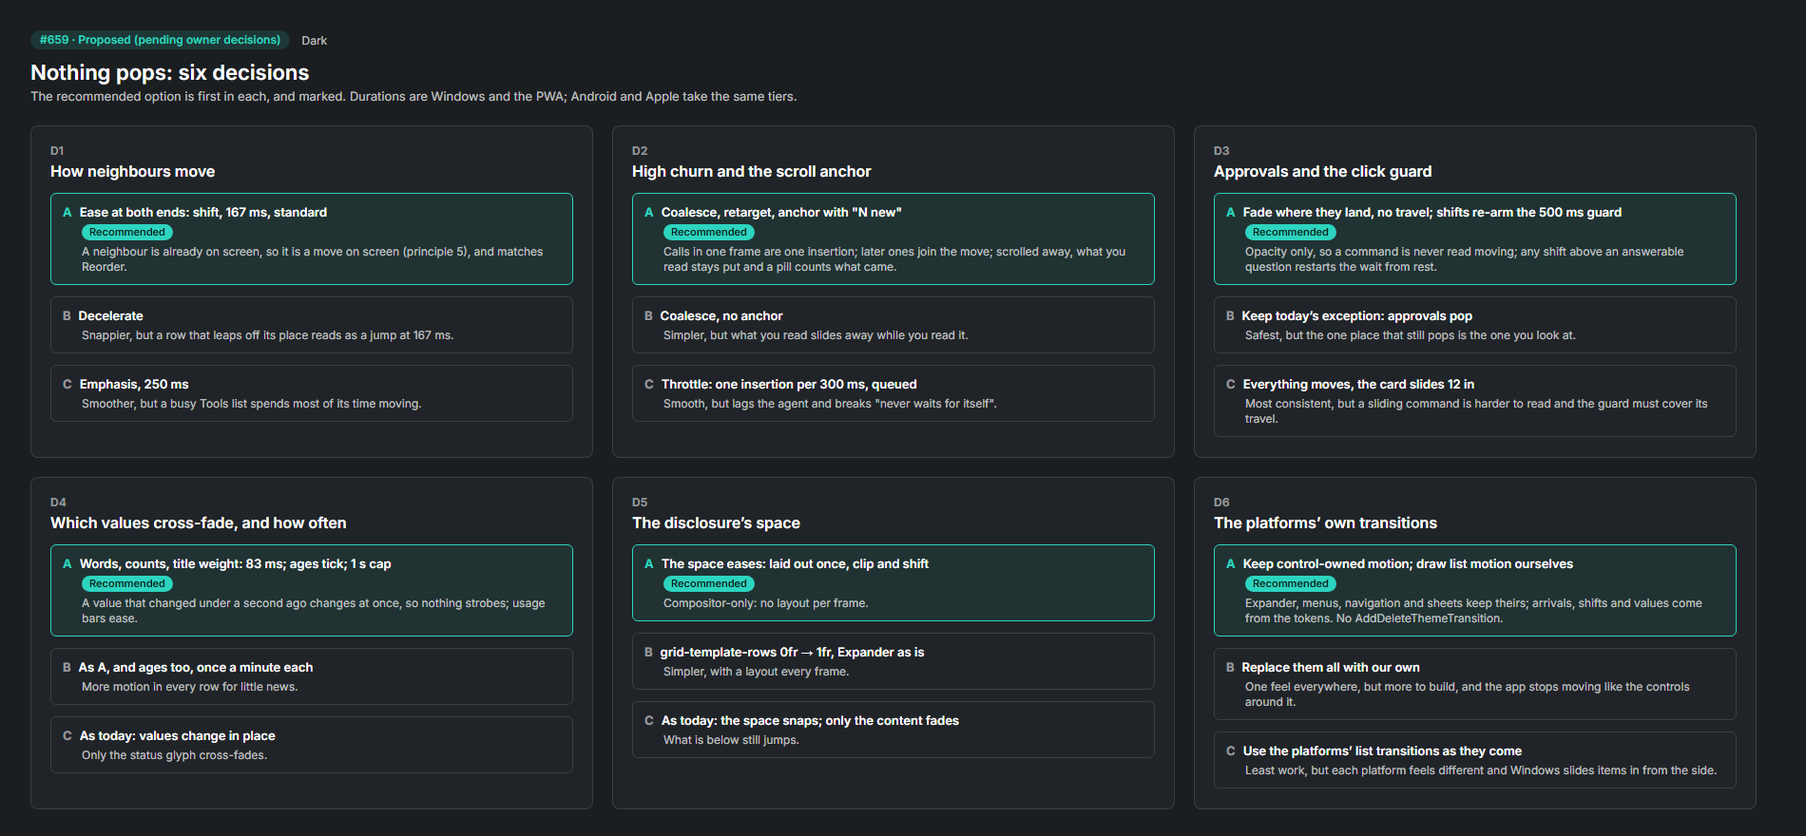
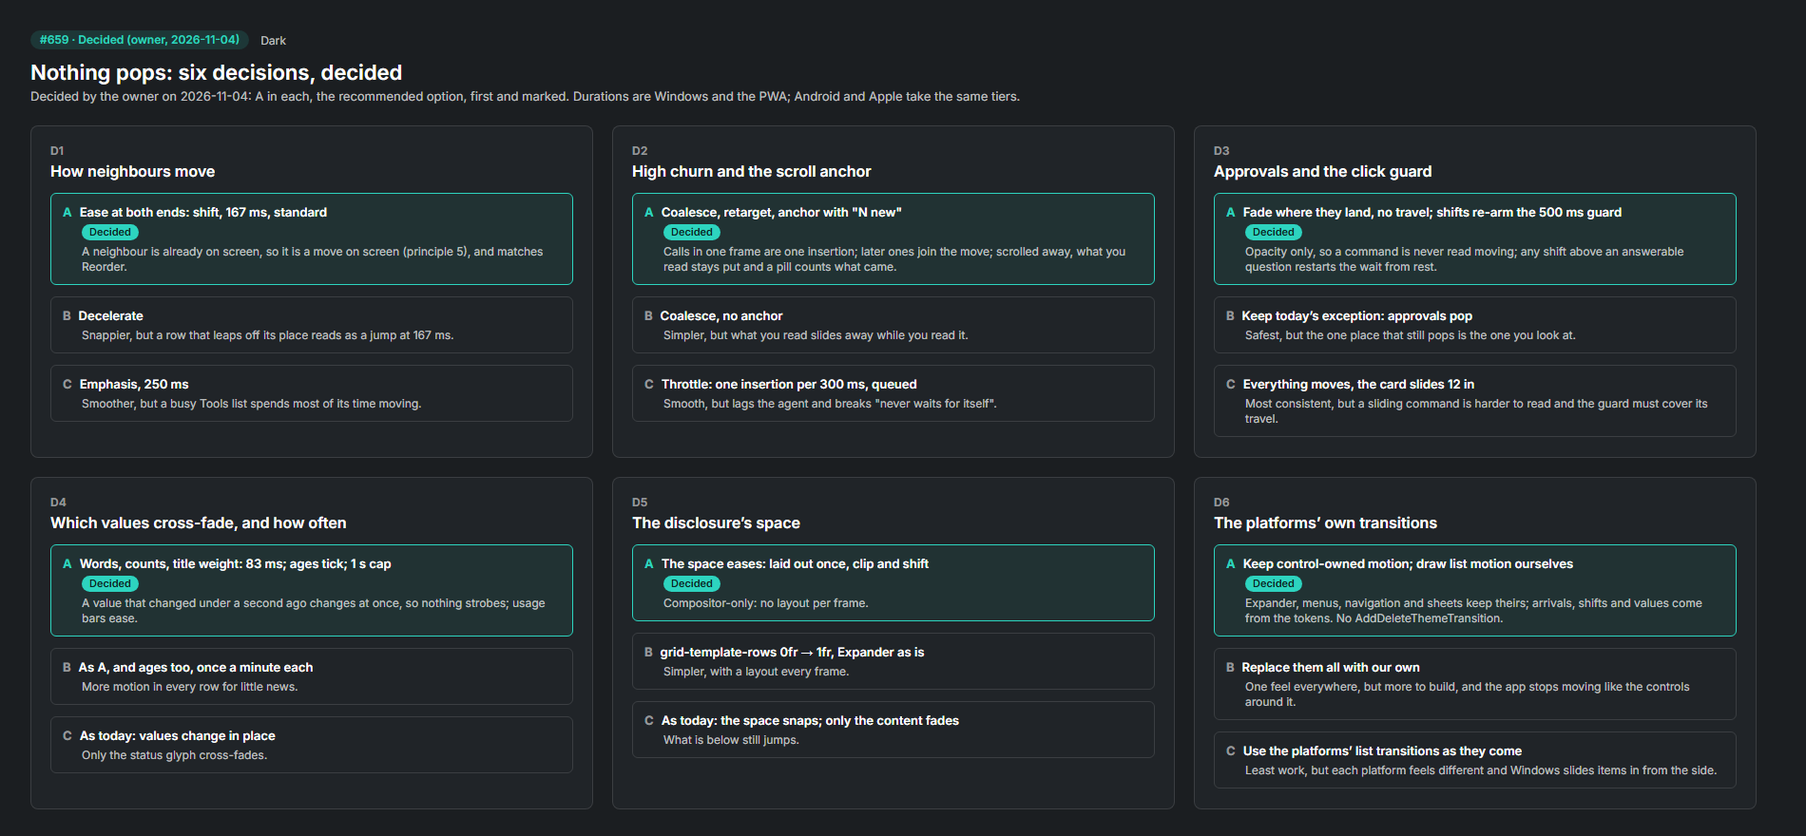
Design #659: decided by the owner on 2026-11-04 (D1–D6)
Marks the §5.3 rule, the proposal, the boards and the canvas entries as decided; adds the status row and the contact sheet; names the build issues #684 (Windows app) and #685 (PWA).

Copilot-Session: c187cf6c-10c7-4d58-a4bd-247912568b18

diff --git a/design/canvas/Proposal-659-Tools-Strip.dc.html b/design/canvas/Proposal-659-Tools-Strip.dc.html
@@ -12,14 +12,14 @@
 body{margin:0}
 </style>
 </helmet>
-<!-- A proposal, not the spec (docs/design/proposals/659-no-pop-motion.md). Frames are drawn from the tokens' curves, not captured. -->
+<!-- Decided by the owner on 2026-11-04, D1–D6; the spec is ui.md §5.3 (docs/design/proposals/659-no-pop-motion.md). Frames are drawn from the tokens' curves, not captured. -->
 <div style="width: 1900px; height: 980px; box-sizing: border-box; padding: 32px; background: {{t.bg}}; color: {{t.text}}; font-family: 'Segoe UI Variable Text', system-ui, -apple-system, Roboto, sans-serif; overflow: hidden">
   <div style="display: flex; align-items: center; gap: 12px">
-    <span style="display: inline-block; padding: 2px 10px; border-radius: 10px; font-size: 12px; line-height: 16px; font-weight: 600; color: {{t.bridge}}; background: {{t.tag}}">#659 · Proposed (pending owner decisions)</span>
+    <span style="display: inline-block; padding: 2px 10px; border-radius: 10px; font-size: 12px; line-height: 16px; font-weight: 600; color: {{t.bridge}}; background: {{t.tag}}">#659 · Decided (owner, 2026-11-04)</span>
     <span style="font-size: 12px; color: {{t.text2}}">{{t.name}}</span>
   </div>
-  <h1 style="margin: 10px 0 2px; font-family: 'Segoe UI Variable Display', system-ui, sans-serif; font-size: 22px; line-height: 28px; font-weight: 600">A Tools call arrives: today it pops, proposed it eases in and the rest eases down</h1>
-  <p style="margin: 0 0 20px; font-size: 13px; line-height: 18px; color: {{t.text2}}">The same 167 ms, five frames apart. Proposed: the list is laid out once; every call below is drawn where it was and moves down over shift (standard, standard), uncovering the new call as it fades in over listItem (standard, decelerate). The dashed box is the new slot. Only a translation and an opacity run.</p>
+  <h1 style="margin: 10px 0 2px; font-family: 'Segoe UI Variable Display', system-ui, sans-serif; font-size: 22px; line-height: 28px; font-weight: 600">A Tools call arrives: today it pops, decided it eases in and the rest eases down</h1>
+  <p style="margin: 0 0 20px; font-size: 13px; line-height: 18px; color: {{t.text2}}">The same 167 ms, five frames apart. Decided: the list is laid out once; every call below is drawn where it was and moves down over shift (standard, standard), uncovering the new call as it fades in over listItem (standard, decelerate). The dashed box is the new slot. Only a translation and an opacity run.</p>
   <sc-for list="{{strips}}" as="s">
     <div style="display: flex; gap: 20px; align-items: flex-start; margin-bottom: 22px">
       <div style="width: 150px; flex: none; padding-top: 22px">
@@ -92,7 +92,7 @@ class Component extends DCLogic {
     const strips = [
       { name: 'Today (pop)', color: t.text, note: 'Both clients rebuild the list: the call and the shift land in one frame.',
         frames: times.map((ms) => frame(ms, ms === 0 ? 0 : 1, 'today', { note: ms === 0 ? 'before' : 'already there' })) },
-      { name: 'Proposed', color: t.bridge, note: 'listItem fades the call in; shift eases every call below down by one row.',
+      { name: 'Decided', color: t.bridge, note: 'listItem fades the call in; shift eases every call below down by one row.',
         frames: times.map((ms) => frame(ms, 1, 'proposed', { note: ms === 0 ? 'laid out; rows drawn where they were' : (ms === 167 ? 'at rest' : `rows ${Math.round(standard(ms / D) * 100)}% down, call ${Math.round(decelerate(ms / D) * 100)}% faded in`), trace: ms === 0 })) },
       { name: 'Burst and scrolled away', color: t.bridge, note: 'Three calls in one frame are one insertion. Scrolled away, what you read stays put.',
         frames: [

diff --git a/design/canvas/Proposal-659-Decisions.dc.html b/design/canvas/Proposal-659-Decisions.dc.html
@@ -12,14 +12,14 @@
 body{margin:0}
 </style>
 </helmet>
-<!-- A proposal, not the spec (docs/design/proposals/659-no-pop-motion.md §7). -->
+<!-- Decided by the owner on 2026-11-04, D1–D6 (docs/design/proposals/659-no-pop-motion.md §7); the spec is ui.md §5.3. -->
 <div style="width: 1900px; height: 880px; box-sizing: border-box; padding: 32px; background: {{t.bg}}; color: {{t.text}}; font-family: 'Segoe UI Variable Text', system-ui, -apple-system, Roboto, sans-serif; overflow: hidden">
   <div style="display: flex; align-items: center; gap: 12px">
-    <span style="display: inline-block; padding: 2px 10px; border-radius: 10px; font-size: 12px; line-height: 16px; font-weight: 600; color: {{t.bridge}}; background: {{t.tag}}">#659 · Proposed (pending owner decisions)</span>
+    <span style="display: inline-block; padding: 2px 10px; border-radius: 10px; font-size: 12px; line-height: 16px; font-weight: 600; color: {{t.bridge}}; background: {{t.tag}}">#659 · Decided (owner, 2026-11-04)</span>
     <span style="font-size: 12px; color: {{t.text2}}">{{t.name}}</span>
   </div>
-  <h1 style="margin: 10px 0 2px; font-family: 'Segoe UI Variable Display', system-ui, sans-serif; font-size: 22px; line-height: 28px; font-weight: 600">Nothing pops: six decisions</h1>
-  <p style="margin: 0 0 22px; font-size: 13px; line-height: 18px; color: {{t.text2}}">The recommended option is first in each, and marked. Durations are Windows and the PWA; Android and Apple take the same tiers.</p>
+  <h1 style="margin: 10px 0 2px; font-family: 'Segoe UI Variable Display', system-ui, sans-serif; font-size: 22px; line-height: 28px; font-weight: 600">Nothing pops: six decisions, decided</h1>
+  <p style="margin: 0 0 22px; font-size: 13px; line-height: 18px; color: {{t.text2}}">Decided by the owner on 2026-11-04: A in each, the recommended option, first and marked. Durations are Windows and the PWA; Android and Apple take the same tiers.</p>
   <div style="display: flex; flex-wrap: wrap; gap: 20px">
     <sc-for list="{{decisions}}" as="d">
       <div style="width: 592px; height: 350px; box-sizing: border-box; padding: 18px 20px; border-radius: 8px; border: 1px solid {{t.stroke}}; background: {{t.card}}">
@@ -31,7 +31,7 @@ body{margin:0}
               <b style="flex: none; font-size: 13px; color: {{o.color}}">{{o.key}}</b>
               <span style="font-size: 13px; line-height: 18px; font-weight: 600">{{o.head}}</span>
             </div>
-            <sc-if value="{{o.rec}}"><div style="margin: 4px 0 0 20px; display: inline-block; padding: 1px 8px; border-radius: 9px; font-size: 11px; line-height: 15px; font-weight: 600; color: {{t.onBridge}}; background: {{t.bridge}}">Recommended</div></sc-if>
+            <sc-if value="{{o.rec}}"><div style="margin: 4px 0 0 20px; display: inline-block; padding: 1px 8px; border-radius: 9px; font-size: 11px; line-height: 15px; font-weight: 600; color: {{t.onBridge}}; background: {{t.bridge}}">Decided</div></sc-if>
             <div style="margin: 4px 0 0 20px; font-size: 12px; line-height: 16px; color: {{t.text2}}">{{o.why}}</div>
           </div>
         </sc-for>

diff --git a/design/canvas/Proposal-659-Disclosure.dc.html b/design/canvas/Proposal-659-Disclosure.dc.html
@@ -12,10 +12,10 @@
 body{margin:0}
 </style>
 </helmet>
-<!-- A proposal, not the spec (docs/design/proposals/659-no-pop-motion.md). Frames are drawn from the tokens' curves, not captured. -->
+<!-- Decided by the owner on 2026-11-04, D1–D6; the spec is ui.md §5.3 (docs/design/proposals/659-no-pop-motion.md). Frames are drawn from the tokens' curves, not captured. -->
 <div style="width: 1900px; height: 940px; box-sizing: border-box; padding: 32px; background: {{t.bg}}; color: {{t.text}}; font-family: 'Segoe UI Variable Text', system-ui, -apple-system, Roboto, sans-serif; overflow: hidden">
   <div style="display: flex; align-items: center; gap: 12px">
-    <span style="display: inline-block; padding: 2px 10px; border-radius: 10px; font-size: 12px; line-height: 16px; font-weight: 600; color: {{t.bridge}}; background: {{t.tag}}">#659 · Proposed (pending owner decisions)</span>
+    <span style="display: inline-block; padding: 2px 10px; border-radius: 10px; font-size: 12px; line-height: 16px; font-weight: 600; color: {{t.bridge}}; background: {{t.tag}}">#659 · Decided (owner, 2026-11-04)</span>
     <span style="font-size: 12px; color: {{t.text2}}">{{t.name}}</span>
   </div>
   <h1 style="margin: 10px 0 2px; font-family: 'Segoe UI Variable Display', system-ui, sans-serif; font-size: 22px; line-height: 28px; font-weight: 600">Show reasoning eases its space open and shut; a Details value cross-fades</h1>

diff --git a/docs/design/proposals/659-no-pop-motion/prototype.html b/docs/design/proposals/659-no-pop-motion/prototype.html
@@ -6,7 +6,7 @@
 <meta name="color-scheme" content="dark light">
 <title>Nothing pops · #659 prototype</title>
 <!--
-  #659 · Proposed (pending owner decisions D1–D6).
+  #659 · Decided by the owner on 2026-11-04 (D1–D6).
   One self-contained file: no dependencies, no network. Open it in a browser, on a phone too.
   It shows the behaviour in docs/design/proposals/659-no-pop-motion.md; it is not product code.
   Durations are the Windows and PWA tokens (design/tokens.json motion): shift 167 ms standard,
@@ -138,7 +138,7 @@ footer { max-width: 1400px; margin: 0 auto; padding: 0 16px 24px; color: var(--t
 </head>
 <body>
 <div class="top">
-  <h1>Nothing pops in or out <small>#659 · Proposed (pending owner decisions) · sample data</small></h1>
+  <h1>Nothing pops in or out <small>#659 · Decided (owner, 2026-11-04) · sample data</small></h1>
   <div class="seg" role="group" aria-label="Motion">
     <button type="button" id="m-today" aria-pressed="false">Today (pop)</button>
     <button type="button" id="m-proposed" aria-pressed="true">Proposed</button>

diff --git a/docs/design/proposals/659-no-pop-motion.md b/docs/design/proposals/659-no-pop-motion.md
@@ -1,7 +1,9 @@
 # Nothing pops in or out (#659)
 
-**Status: Proposed, pending owner decisions D1–D6.** Nothing here is built. The proposed
-text is in [ui.md §5.3](../ui.md#53-motion), marked as a proposal; the tokens are in
+**Status: Decided by the owner on 2026-11-04, D1–D6** (option A in each, as recommended,
+including the cases folded in: #605's departure, the #489 prompt line and #677's banner space).
+The text is in [ui.md §5.3](../ui.md#53-motion), now the spec; the clients follow in #684
+(Windows) and #685 (PWA). The tokens are in
 [design/tokens.json](../../../design/tokens.json) `motion.catalogue` (`shift` and `value`).
 Everything shown uses sample data (machines WORKSTATION and BUILD-VM).
 
@@ -58,7 +60,7 @@ on a running client. "Pops" means the element, or what is next to it, changes in
 | Details values | §6.2; ages and counts in place | `ItemsControl` synced by key, SessionCardViewModel.Panes.cs:41-65; values are text bindings; type ramp is tabular (DesignResources.xaml:174-206) | Facts rebuilt with `replaceChildren`, session-card.js:836 | Yes (as specified) |
 | Status words (row, header, strip) | §5.3 Status glyph: "The words change at once" | Glyph cross-fades, StatusGlyphView.xaml.cs:119-120; words bind | Glyph cross-fades, glyph.js:42-68; words set | Words pop (as specified) |
 | Title weight (unread) | §5.3 Activity dot: "The title's weight changes at once" | Dot fades, SessionRow.xaml.cs:133-134 | Dot `enter`/`leave`, session-card.js:882-884 | Weight pops (as specified) |
-| Banners (offline, update, replaced, stuck) | §5.3 Toast and banner: slides 12 in and fades, leaves the same way | `Motion.Banner`: enters with Toast, MainWindow.xaml.cs:43-44, SessionsPage.xaml.cs:26; **no exit**; content below jumps | `reveal()` enters, motion.js:110-114. Since #677 (merged at f3cde89b), `conceal()` (motion.js:119, through `hideStatus`, main.js:207) makes a leaving banner fade and rise 12 toward its edge as an inert copy, **but its space closes at once, so the content below jumps up**, as the Toast and banner row's PWA cell now says | Windows: **leaving pops, contrary to the spec**, and content below jumps. PWA: the banner no longer pops, but **the content below still jumps** (a known contradiction of this proposal). Proposed: the space eases closed over `shift` as the copy leaves, and what was below eases up with it (Easing aside) |
+| Banners (offline, update, replaced, stuck) | §5.3 Toast and banner: slides 12 in and fades, leaves the same way | `Motion.Banner`: enters with Toast, MainWindow.xaml.cs:43-44, SessionsPage.xaml.cs:26; **no exit**; content below jumps | `reveal()` enters, motion.js:110-114. Since #677 (merged at f3cde89b), `conceal()` (motion.js:119, through `hideStatus`, main.js:207) makes a leaving banner fade and rise 12 toward its edge as an inert copy, **but its space closes at once, so the content below jumps up**, as the Toast and banner row's PWA cell said before #659 | Windows: **leaving pops, contrary to the spec**, and content below jumps. PWA: the banner no longer pops, but **the content below still jumps** (a known contradiction of this decision). Decided: the space eases closed over `shift` as the copy leaves, and what was below eases up with it (Easing aside) |
 | Host and offline notes | Toast and banner | `FleetNote`, an InfoBar in `ListNotes` (SessionsPage.xaml:153-160), enters through `Motion.Banner` (SessionsPage.xaml.cs:26) and closes at once | `hidden`, sessions-page.js:715-716, 762-763 | **Leaving, yes** (Windows); **both ways** (PWA) |
 | Toasts | Toast and banner | System notifications (the OS's own) | None in-app | n/a |
 | Menus (row, Sort, overflow) | §5.3 Menu and flyout | `MenuFlyout`'s own | `enter`/`leave` with `menu`, row-menu.js:50, 61 | No |
@@ -83,9 +85,9 @@ From the table, against the signed-off text (not this proposal):
    quicker". The PWA's app banners have left that way since #677 (f3cde89b); its host and
    offline notes still don't use `reveal()` at all.
 
-Known contradiction of this proposal, shipped to spec: **the PWA's app banners close their space
+Known contradiction of this decision, shipped to the earlier spec: **the PWA's app banners close their space
 at once** (#677, f3cde89b). The banner fades and rises 12 as it goes, but the content below
-jumps up into its space. Under this proposal that space eases closed over `shift` while the
+jumps up into its space. As decided, that space eases closed over `shift` while the
 banner leaves, and what was below eases up with it; the Toast and banner row's PWA cell changes
 to match (§9, the PWA issue).
 
@@ -146,7 +148,7 @@ leaving row's space at once, so the rows below jump into place, and #605 (head 1
 implements that jump because a review cited §5.3. Under this rule the card fades out where it
 was (or collapses as its slot eases closed) and the cards below ease up over `shift`, the same
 motion as the cards a held card passes in Reorder. Under reduced motion the gap closes with a
-short cross-fade (`value`, 83 ms) and nothing travels. Once this proposal is approved, #605's
+short cross-fade (`value`, 83 ms) and nothing travels. Decided (D1–D6, 2026-11-04): #605's
 departure jump is replaced by this; #605 itself is not edited here.
 
 The item never slides in from the side, which is why WinUI's `AddDeleteThemeTransition` stays
@@ -341,7 +343,7 @@ Tested with Playwright 1.56 in Chromium and WebKit
 
 ## 6. The ui.md text
 
-The proposal edits §5.3 in place, with a banner at the top of the section saying so:
+The decision edits §5.3 in place, with a note at the top of the section saying so:
 
 - principle 4 becomes "Nothing pops, and rows never move on their own";
 - Disclosure: the space eases (`shift`) and the content fades out, quicker, on closing;
@@ -357,6 +359,8 @@ The proposal edits §5.3 in place, with a banner at the top of the section sayin
 Principle 5 and the Reorder row, which #605 changes, are untouched.
 
 ## 7. Decisions for the owner
+
+**Decided by the owner on 2026-11-04 (D1–D6): option A in each, the recommended one.**
 
 **D1. How neighbours move.**
 - **A. Ease at both ends: `shift`, standard duration (167 ms Windows and PWA, 200 Android,
@@ -419,24 +423,25 @@ Principle 5 and the Reorder row, which #605 changes, are untouched.
 |---|---|---|
 | Tools: a call arriving, today and proposed; a burst; scrolled away | [proposal-659-tools-strip.png](659-no-pop-motion/proposal-659-tools-strip.png) | [proposal-659-tools-strip-light.png](659-no-pop-motion/proposal-659-tools-strip-light.png) |
 | Disclosure: Show reasoning opening and closing, and a Details value changing | [proposal-659-disclosure.png](659-no-pop-motion/proposal-659-disclosure.png) | [proposal-659-disclosure-light.png](659-no-pop-motion/proposal-659-disclosure-light.png) |
-| Decisions D1–D6 | [proposal-659-decisions.png](659-no-pop-motion/proposal-659-decisions.png) | [proposal-659-decisions-light.png](659-no-pop-motion/proposal-659-decisions-light.png) |
+| Decisions D1–D6, decided | [proposal-659-decisions.png](659-no-pop-motion/proposal-659-decisions.png) | [proposal-659-decisions-light.png](659-no-pop-motion/proposal-659-decisions-light.png) |
 
 The sources are `design/canvas/Proposal-659-*.dc.html`, on the canvas under "#659 · Nothing
 pops". To render them: from `tools/design-mockups`, `npm install`, then
 `node render.js ../../design/canvas ../../docs/design/proposals/659-no-pop-motion Proposal-659-`.
+All six are on one [contact sheet](659-no-pop-motion/contact-sheet.png), tiled for the owner's review.
 
 ## 9. What follows
 
-Once the owner decides, the proposal banner comes off §5.3 and these issues get filed:
+Decided on 2026-11-04; §5.3 is the spec, and these are filed:
 
-1. **Windows app: nothing pops.** `shift` and `value` in App.Core's catalogue; a `Motion.Shift`
+1. **Windows app: nothing pops** (#684). `shift` and `value` in App.Core's catalogue; a `Motion.Shift`
    helper; leaving rows fade (fixing contradiction 1); the strip's chips fade and shift (2);
    Tools as a keyed list with coalescing, the anchor and "N new"; timeline events, the Now line
    the question card and the #489 prompt line (once #504 lands) arrive and leave, and Show
    prompt's space eases closed; banners leave (4) and push; Details values and
    status words cross-fade; the click guard re-arms on a shift.
-2. **Windows app: Needs you as a toggle** (3), if not already tracked under #253.
-3. **PWA: nothing pops.** `flip()` in motion.js; Tools and timeline events as keyed lists;
+2. **Windows app: Needs you as a toggle** (3): already tracked under #253 (U10b), so not filed again.
+3. **PWA: nothing pops** (#685). `flip()` in motion.js; Tools and timeline events as keyed lists;
    the #489 prompt line fades in; the disclosure's space and exit fade (Show prompt
    included); `conceal()` (#677) eases a banner's space closed, and notes go through
    `reveal`/`conceal` (4); value cross-fades; usage bars ease; `watchMoves` counts a shift; and
@@ -451,7 +456,8 @@ Once the owner decides, the proposal banner comes off §5.3 and these issues get
   both ideas (a reorder's passed row now eases with `shift` rather than "at once").
   #605 (head 14d15102) also makes the remaining rows jump when a session ends or leaves the
   list with nothing held, as today's §5.3 says; §2.1 replaces that jump with a fade and an
-  ease up over `shift` (a cross-fade under reduced motion), to follow once this is approved.
+  ease up over `shift` (a cross-fade under reduced motion), decided on 2026-11-04; #684 and #685
+  build it.
 - **#629** (the compact header, #620) adds `collapse` after `reorder`. No conflict: `shift`
   and `value` sit earlier in the catalogue.
 - `design/canvas/canvas.json` is one line in every PR; the #659 boards sit below #620's

diff --git a/docs/design/ui.md b/docs/design/ui.md
@@ -354,11 +354,12 @@ transitions keep their own timing, the in-flight progress ring is the only loop 
 glyphs, and scrolling to a question never moves a conversation the person has scrolled back
 through.*
 
-> **Proposed, pending owner decisions (#659).** This section's text for "nothing pops" (principle
-> 4; the Disclosure, Arriving and leaving, Easing aside, Status glyph, Activity dot, Value change
-> and Toast and banner rows; and "Motion on data updates") is a proposal. The options and the
-> recommendations are in [proposals/659-no-pop-motion.md](proposals/659-no-pop-motion.md), D1–D6.
-> Until the owner decides, the clients keep to the signed-off text in this section's history.
+> **Decided by the owner on 2026-11-04, D1–D6 (#659).** This section's text for "nothing pops"
+> (principle 4; the Disclosure, Arriving and leaving, Easing aside, Status glyph, Activity dot,
+> Value change and Toast and banner rows; and "Motion on data updates") is the spec, every
+> decision option A. The options and reasoning are in
+> [proposals/659-no-pop-motion.md](proposals/659-no-pop-motion.md); the clients follow in #684
+> (Windows) and #685 (PWA).
 
 Motion shows where something came from and where it went. It answers the person or a
 change, and never runs for its own sake. The values are in `tokens.json` under `motion`,
@@ -728,8 +729,9 @@ joined words at a separator, since a fact can carry a delegate's name (#286).
     age in meta style: when its turn began (`statusSince` when it started running, seen here). The
     protocol doesn't date a prompt, so one first seen after its turn has no age.
   - **Collapsed by default:** two lines of it in secondary text, then **Show prompt**, with the
-    Disclosure motion (§5.3): the chevron turns and the text settles in, nothing below slides, and
-    it is instant under reduced motion. Open, it reads "Hide prompt" and shows all of it in reading
+    Disclosure motion (§5.3): the chevron turns, the space eases open or closed over `shift` with
+    what is below easing with it, the text fades, and it is instant under reduced motion. Open, it
+    reads "Hide prompt" and shows all of it in reading
     style inside a thin (2 px) agent-colour rule on the leading edge, not a filled card. A new
     prompt starts collapsed; an update to the same one leaves it as the person left it.
   - **Repeats fold.** When a schedule's prompt has the same words as the last one shown under the

diff --git a/docs/status.md b/docs/status.md
@@ -323,6 +323,7 @@ took over from f7ba0bcc when DEV-VM1 began migrating. Quality now owns all merge
 | U8 | #176 | Delegates in both clients | PWA part 1 (attribution) done in #230. **App done**: #250 (closed #229), after a clean security re-review. PWA part 2 (strip, tab, inspector) is pushed to `ui/u8-pwa-delegates`, stacked on #252 (in review, security review next). It becomes a PR once #252 merges |
 | U9 | #232 | Motion (ui.md §5.3), signed off 2026-11-02 | Spec and tokens done in #233. In review: #261 (PWA, draft; security review before merge) and #275 (app, draft) |
 | U10 | #253 | One row, one question: Needs you becomes a filter, the question lives only in the conversation, and an approval's notification only opens it. Signed off 2026-11-02 (option A, every recommended answer) | Spec: #302 (ui.md, subagents.md §7, ui-plan.md, boards). Next, three slices, each with a security review: U10a PWA, U10b Windows app (its toasts already done in #377), U10c Apple in #260 (@welshofer) |
+| | #659 | Motion: nothing pops in or out. Arriving items fade in as neighbours ease aside (`shift`), leaving items fade as their slot eases closed, disclosures ease their space, values cross-fade (`value`), and bursts coalesce with a scroll anchor and "N new". **Decided by the owner 2026-11-04**, every recommended option (D1–D6), including #605's departure, the #489 prompt line and #677's banner space | Spec: #667 (ui.md §5.3, tokens `shift` and `value`; proposal, prototype and boards in `docs/design/proposals/659-no-pop-motion`). Builds: #684 (Windows app), #685 (PWA) |
 | | #167 | App icon (#167's last deliverable) | **Done**: #278. Windows and the PWA are generated from `tokens.json` `appIcon`. The SVG sources for macOS, iOS and Android are in `design/app-icon`, and their catalogs come with P5 and P8. Three proportions not on the design board need the owner's eye (#170) |
 | | #231 | Settings: each agent's state and "Set up" (UI half) | Not started; waits for the backend half (track A) |
 | | #181 | Monospace: **Slipgates Mono** (was Agent Bridge Mono; our OFL build of Iosevka, `design/fonts/slipgates-mono`), decided 2026-11-01 | Bundled in both clients (U3). Rebuilt at a normal 600 width for #295, and with Medium and Vietnamese for #544 |
